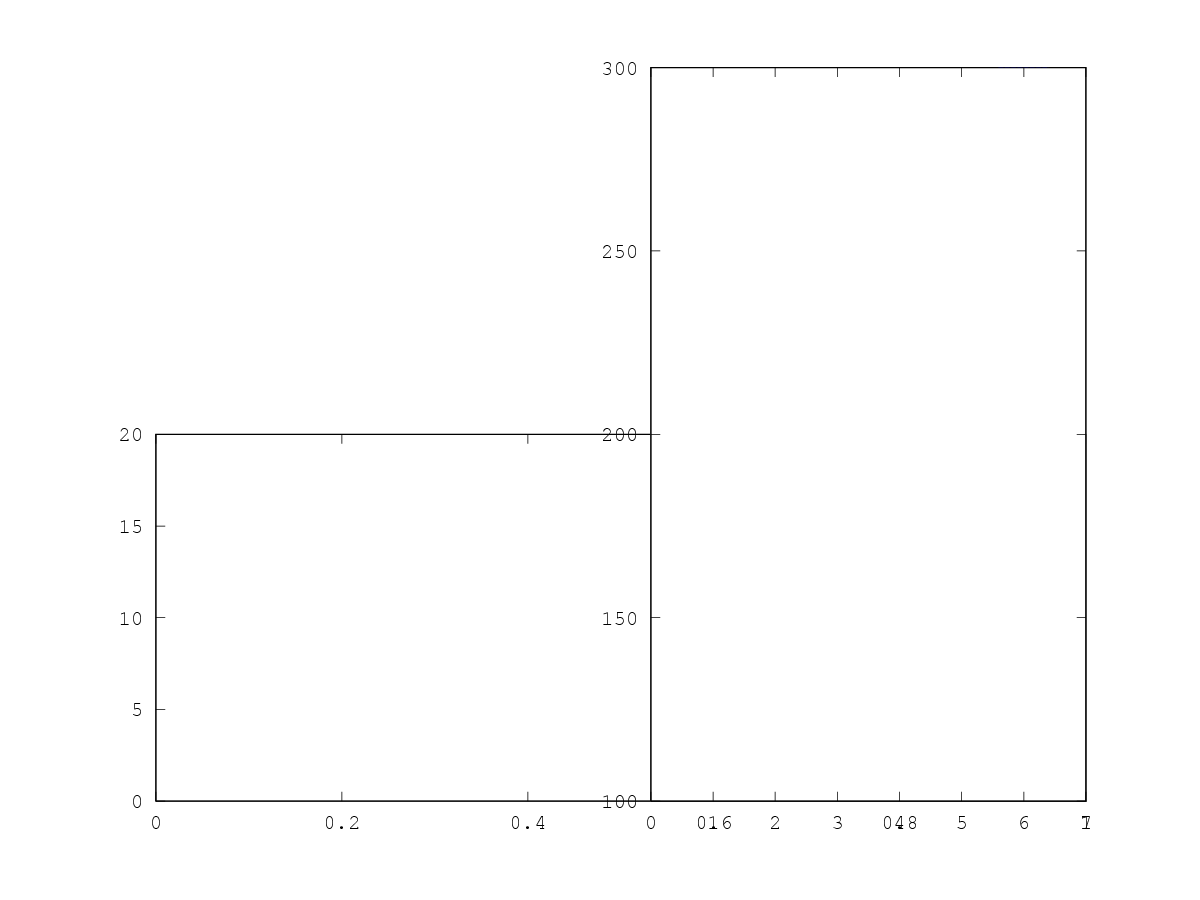
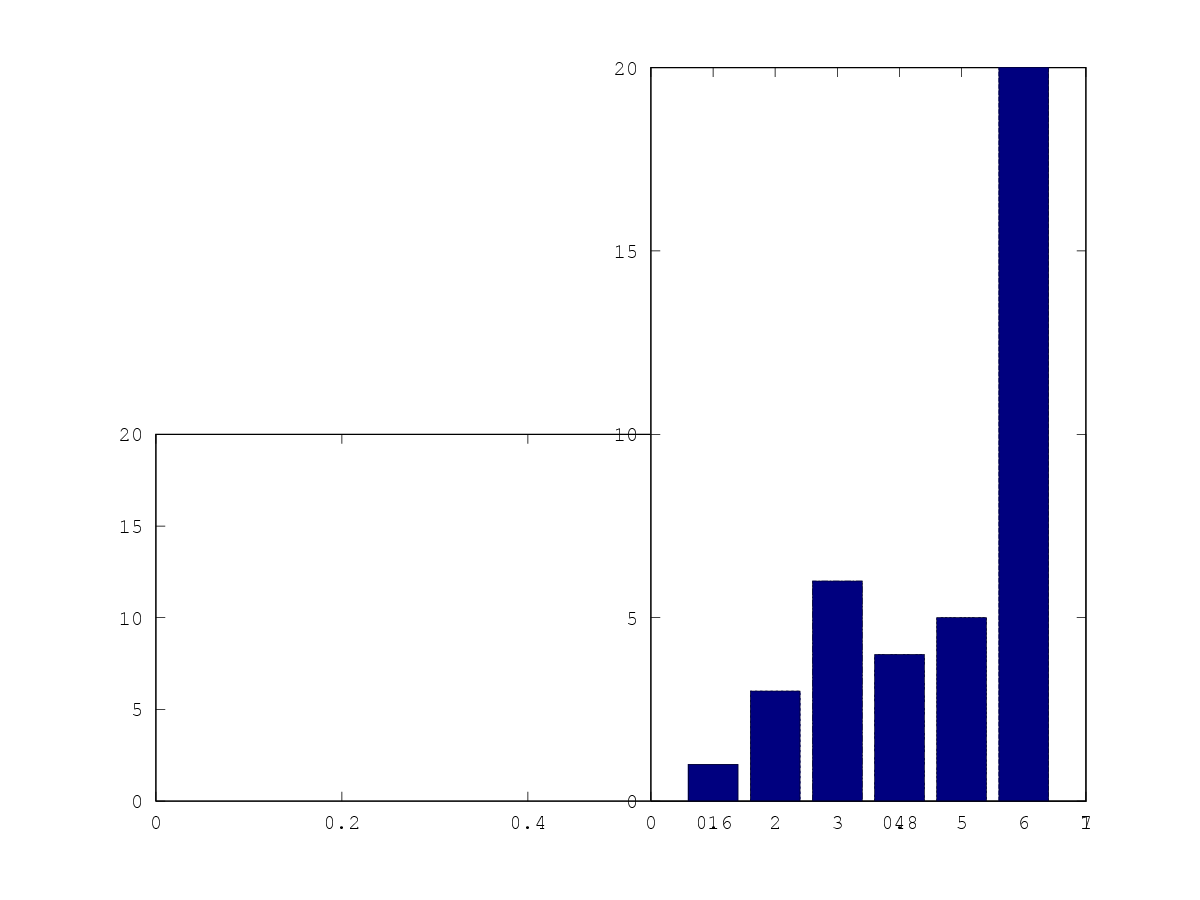
break_axis.m

Changed region(s): [[0.555, 0.0622, 0.8942, 0.9022]]

diff --git a/break_axis.m b/break_axis.m
@@ -30,8 +30,8 @@ a2=axes('position',[p0(1)+p0(3)/2+.025 p0(2) p0(3)/2-.025 p0(4)]);
 %barh(a);
 bar(a);
 
-%set(a2,'ylim',ylim1);
-set(a2,'ylim',ylim2);
+set(a2,'ylim',ylim1);
+%set(a2,'ylim',ylim2);
 %set(a2,'xlim',xlim,'ylim',ylim2);
 %set(a2,'xtick',[]);
 %set(a2,'xcolor',get(a2,'color'));
